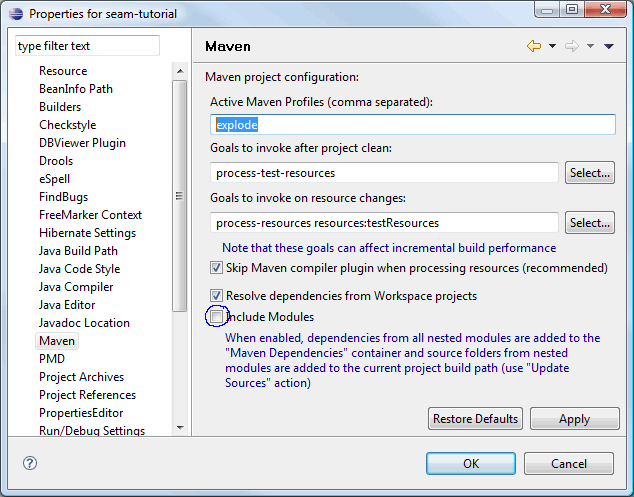
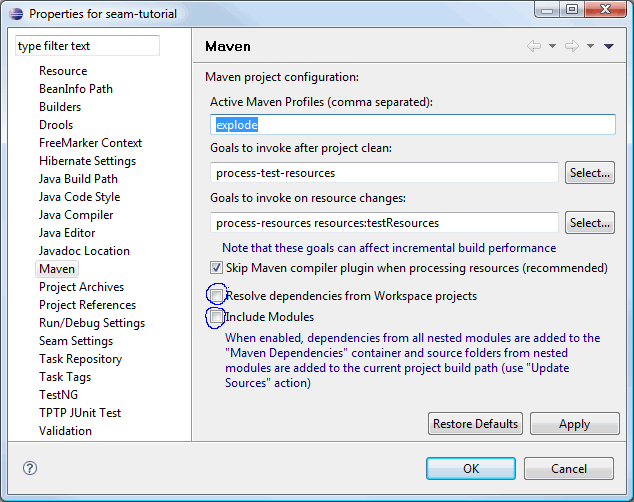
updated tutorial - work in progress

Changed region(s): [[0.0, 0.0, 0.989, 0.9658], [0.8991, 0.4225, 0.959, 0.4829]]

diff --git a/doc/tutorial/02-eclipse.html b/doc/tutorial/02-eclipse.html
@@ -258,10 +258,11 @@ in the project and provides a hierarchical list of them.</p>
 		Build errors for seam-tutorial-ear; org.apache.maven.lifecycle.LifecycleExecutionException: 
 		Invalid or missing parameters: [Mojo parameter [name: 'outputDirectory'; alias: 'null'], Mojo 
 		parameter [name: 'resources'; alias: 'null']] for mojo: 
-		org.apache.maven.plugins:maven-resources-plugin:2.3:copy-resources</font></code><br/>
-		The issue is reported here: 
-		<a href="http://jira.codehaus.org/browse/MNGECLIPSE-1136">Execution goals bound to the process-resources phase cause error</a>
-		<br/><br/>We fix :-)
+		org.apache.maven.plugins:maven-resources-plugin:2.3:copy-resources</font></code><br/><br/>
+		The build fail is caused by a conflict in Maven resolution and Workspace resolution as reported 
+		here: <a href="http://jira.codehaus.org/browse/MNGECLIPSE-1136">
+		Execution goals bound to the process-resources phase cause error</a><br/><br/>
+		We fix :-)
 	</li>
 	<li>
     Modify Maven properties for the parent project, seam-tutotrial.<br/>
@@ -366,26 +367,95 @@ and then import the project all over again.
 
 <h2>The Edit Compile Deploy Cycle</h2>
 <p>To have an effective development environment we need to automate the edit compile deploy cycle.
-You can either add the project to the server as a WTP project or define a Maven builder that 
+You can either use WTP to deploy your project or you can define a Maven builder that 
 hooks in to the <code>process-classes</code> goal. For the latter, the seam-refimpl POMs has alredy
-defined an explode profile for the Maven process-classes goal. You only need to define a Maven builder
-that utilizes this profile on the <code>process-classes</code> goal.
+defined an <code>explode</code> profile for the Maven process-classes goal. All you need to do is to
+define a Maven builder that utilizes this profile on the <code>process-classes</code> goal.
 </p>
 <h3>WTP</h3>
-<p>This section explains how to set up the project as a WTP project</p>
-<img src="img/eclipse-wtp-01.png" style="width:280px; display:block;" />
-<img src="img/eclipse-wtp-02.png" style="width:400px; display:block;" />
-<img src="img/eclipse-wtp-03.png" style="width:400px; display:block;" />
-<img src="img/eclipse-wtp-04.png" style="width:400px; display:block;" />
-<img src="img/eclipse-run-configurations-03.png" style="width:550px; display:block;" />
-<img src="img/eclipse-wtp-05.png" style="width:330px; display:block;" />
-<img src="img/eclipse-wtp-07.png" style="width:700px; display:block;" />
-<img src="img/eclipse-wtp-06.png" style="width:400px; display:block;" />
+<p>This section explains how to use WTP to deploy your project.</p>
+<ol>
+	<li>
+		Add project to server.<br/>
+		<img src="img/eclipse-wtp-01.png" style="width:280px; display:block;" />
+		<img src="img/eclipse-wtp-02.png" style="width:400px; display:block;" />
+	</li>
+	<li>
+		Publish.<br/>
+		<img src="img/eclipse-wtp-03.png" style="width:400px; display:block;" />
+	</li>
+	<li>
+		Start the server.
+		<img src="img/eclipse-server-view-start-server-01.png" style="width:250px; display:block;" />
+		<pre style="font-size:10px;">
 
+12:48:30,813 INFO  [EARDeployer] Init J2EE application: file:/C:/dev/server/jboss-4.2.3.GA-jdk6/server/default/deploy/seam-tutorial-ear.ear/
+12:48:30,814 ERROR [MainDeployer] Could not initialise deployment: file:/C:/dev/server/jboss-4.2.3.GA-jdk6/server/default/deploy/seam-tutorial-ear.ear/
+org.jboss.deployment.DeploymentException: No META-INF/application.xml found
+  at org.jboss.deployment.EARDeployer.init(EARDeployer.java:146)
+  at org.jboss.deployment.MainDeployer.init(MainDeployer.java:872)
+  at org.jboss.deployment.MainDeployer.deploy(MainDeployer.java:809)
+  ....
+  at org.jboss.Main$1.run(Main.java:508)
+  at java.lang.Thread.run(Thread.java:619)
+12:48:30,818 ERROR [URLDeploymentScanner] Incomplete Deployment listing:
+
+--- Incompletely deployed packages ---
+org.jboss.deployment.DeploymentInfo@716583c1 { url=file:/C:/dev/server/jboss-4.2.3.GA-jdk6/server/default/deploy/seam-tutorial-ear.ear/ }
+  deployer: org.jboss.deployment.EARDeployer@1b7edd3
+  status: null
+  state: FAILED
+  watch: file:/C:/dev/server/jboss-4.2.3.GA-jdk6/server/default/deploy/seam-tutorial-ear.ear/
+  altDD: null
+  lastDeployed: 1253443710814
+  lastModified: 1253443587024
+  mbeans:
+		</pre>
+	</li>
+	<li>
+		Stop the server and inspect the deploy folder. As you can see, the deploy folder contains a copy 
+		of the WEB-INF folder from the WAR module and a couple of jar files that shouldn't be there. 
+		Also the <code>*-ds.xml</code> file is gone. The problem is caused by this Eclipse bug:
+		<a href="https://bugs.eclipse.org/bugs/show_bug.cgi?id=247090">
+		Bug 247090 -  User)libraries incorrectly deployed within EARs</a>
+		<img src="img/eclipse-wtp-04.png" style="width:400px; display:block;" />
+	</li>
+	<li>
+		Run <code>mvn install -Pexplode</code> to fix the incorrect deploy.</br>
+		<img src="img/eclipse-run-configurations-03.png" style="width:550px; display:block;" />
+		<img src="img/eclipse-wtp-05.png" style="width:330px; display:block;" />
+	</li>
+	<li>
+		Inspect the deploy folder.
+		<img src="img/eclipse-wtp-06.png" style="width:400px; display:block;" />
+	</li>
+	<li>
+		Start the server (in debug mode) and check the console output.
+		<img src="img/eclipse-server-view-start-server-01.png" style="width:250px; display:block;" />
+		<pre style="font-size:10px;">
+....
+13:54:43,514 INFO  [EARDeployer] Started J2EE application: file:/C:/dev/server/jboss-4.2.3.GA-jdk6/server/default/deploy/seam-tutorial-ear.ear/
+13:54:43,562 INFO  [Http11Protocol] Starting Coyote HTTP/1.1 on http-localhost%2F127.0.0.1-8080
+13:54:43,571 INFO  [AjpProtocol] Starting Coyote AJP/1.3 on ajp-localhost%2F127.0.0.1-8009
+13:54:43,576 INFO  [Server] JBoss (MX MicroKernel) [4.2.3.GA (build: SVNTag=JBoss_4_2_3_GA date=200807181439)] Started in 14s:340ms
+		</pre>
+	</li>
+	<li>
+		Now you can test that the WTP works by changing some xhtml and java files. The changes you made
+		should be reflected immediately on the server (after WTP has done a publish). But as you probably 
+		know; not all changes to Java code are hot deployable even in debug mode. If hot code replacement 
+		is important to you (and it	should be) the get a copy of <strong>JRebel</strong> from 
+		<a href="http://www.zeroturnaround.com/jrebel/">ZERO TURNAROUND</a>.
+	</li>
+	<li>
+		You need to keep an eye on the deploy folder as WTP will do a full deploy from time to time, in
+		particular when you make modifications to the EAR module. The the fix is to run 
+		<code>mvn install -Pexplode</code> again.
+	</li>
+</ol>
 
 <h3>Maven Builder</h3>
-<p>This section explains how to configure the maven builder for the <code>process-classes</code> 
-goal.</p>
+<p>This section explains how to use a Maven builder to deploy your project.</p>
 <ol>
 	<li>
 	  Configure the Maven Builder.<br/>
@@ -399,6 +469,11 @@ goal.</p>
 		<code>${project_loc}</code> then the builder will run only on the sub project that contains
 		the modified file - resulting in a faster build cycle.
     <img src="img/eclipse-maven-builder-03.png" style="width:450px; display:block;" />
+	</li>
+	<li>
+		Run <code>mvn install -Pexplode</code> to do an initial deoploy.</br>
+		<img src="img/eclipse-run-configurations-03.png" style="width:550px; display:block;" />
+		<img src="img/eclipse-wtp-05.png" style="width:330px; display:block;" />
 	</li>
 	<li>
 		Test the Builder:<br/>
